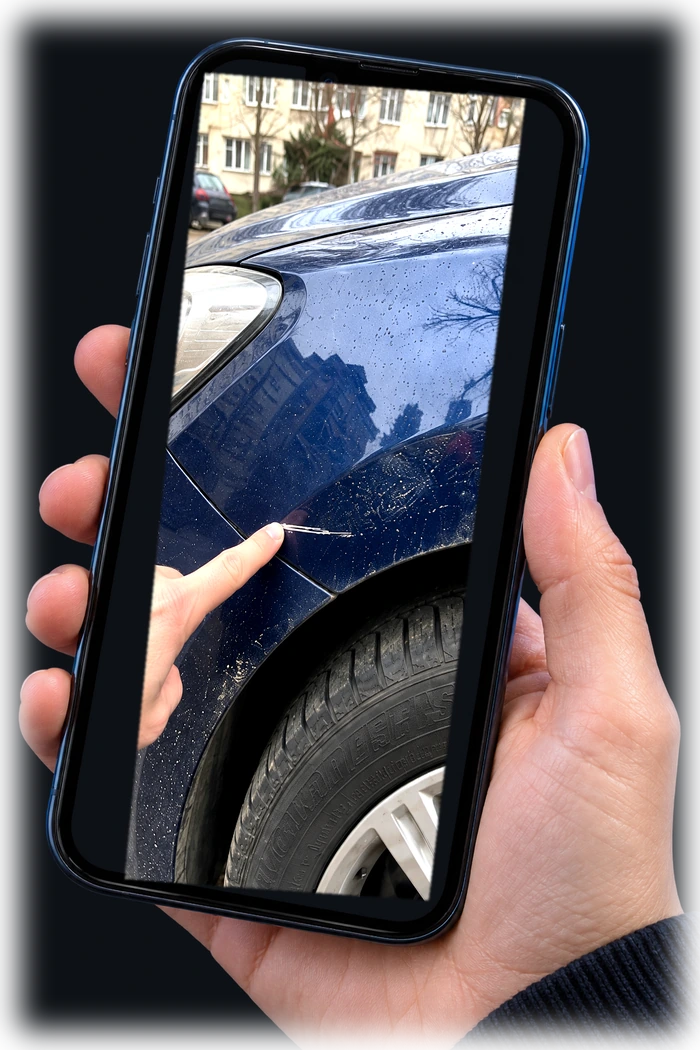
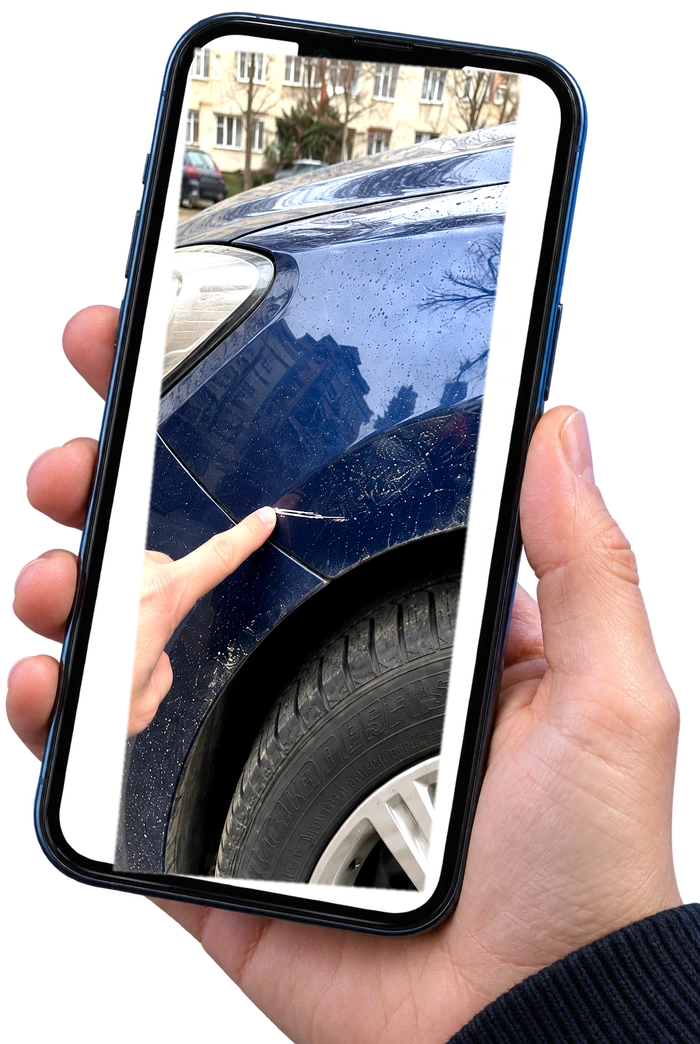
герой: прозорий фон у композиціях, телефон вміщається цілком

diff --git a/assets/style.css b/assets/style.css
@@ -1098,12 +1098,15 @@ section > .container > p.price-note, .price-note { max-width: none; text-align: 
   .hero-phone {
     display: block;
     position: absolute;
-    right: clamp(-30px, 3vw, 70px);
-    top: auto;
-    bottom: -86px;
-    width: clamp(280px, min(34vw, 58vh), 540px);
-    aspect-ratio: 700 / 1050;
-    transform: none;
+    right: clamp(8px, 2.5vw, 56px);
+    /* Веде висота: телефон вписується в героя цілком, ширина рахується
+       від неї. Раніше вів розмір по ширині, і корпус обрізало краєм. */
+    top: 50%;
+    bottom: auto;
+    transform: translateY(-50%);
+    height: min(86%, 64vh, 520px);
+    width: auto;
+    aspect-ratio: 700 / 1044;
     pointer-events: none;
     z-index: 2;
   }
@@ -1117,8 +1120,8 @@ section > .container > p.price-note, .price-note { max-width: none; text-align: 
 
   .hero-phone .shot img {
     display: block;
-    width: 100%;
-    height: auto;
+    height: 100%;
+    width: auto;
   }
 
   .shot.s1 { animation-delay: 0s; }
@@ -1149,15 +1152,15 @@ section > .container > p.price-note, .price-note { max-width: none; text-align: 
   }
 
   @keyframes phone-in {
-    from { opacity: 0; transform: translateY(26px); }
-    to   { opacity: 1; transform: none; }
+    from { opacity: 0; transform: translateY(-46%); }
+    to   { opacity: 1; transform: translateY(-50%); }
   }
 }
 
 /* На вужчих і низьких вікнах міняється розмір спільного контейнера —
    самі композиції всередині лишаються недоторканими. */
 @media (min-width: 1000px) and (max-height: 700px) {
-  .hero-phone { width: clamp(260px, 54vh, 460px); bottom: -64px; }
+  .hero-phone { height: min(88%, 70vh, 430px); }
 }
 
 @media (max-height: 420px) {

diff --git a/sw.js b/sw.js
@@ -5,7 +5,7 @@
 // попередню версію сайту й мусила оновлювати двічі. Тепер кеш — це лише
 // запасний варіант, коли мережі немає.
 
-const CACHE = 'see-you-v24';
+const CACHE = 'see-you-v25';
 const ASSETS = ['/', '/icon.svg', '/manifest.webmanifest'];
 
 self.addEventListener('install', (event) => {
